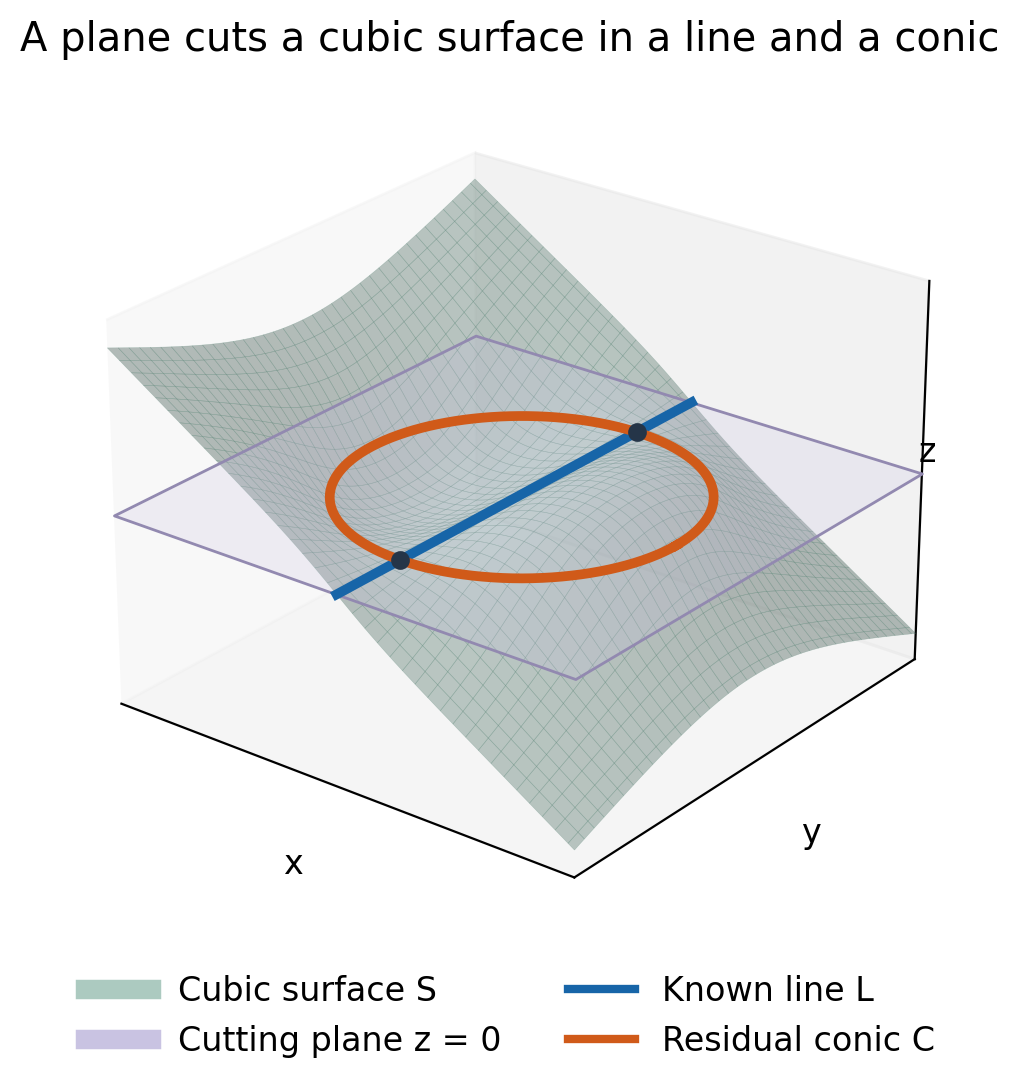
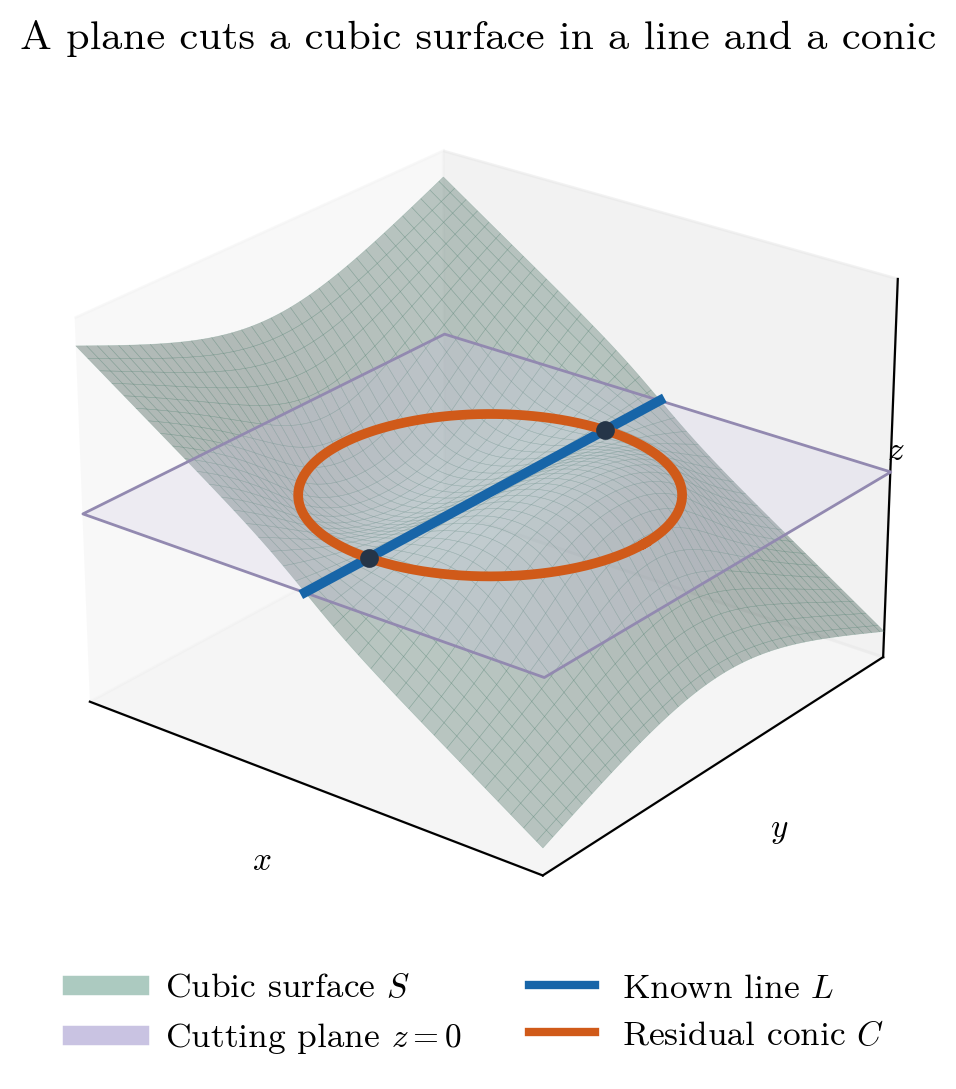
codex: match linkage figure typography to Latin Modern text

diff --git a/scripts/draw_linkage_example.py b/scripts/draw_linkage_example.py
@@ -5,7 +5,7 @@ The smooth cubic is F=x(x*x+y*y-w*w)+z(w*w+z*z).
 Its section z=0 is the line x=0 and the conic x*x+y*y=w*w.
 These are original explanatory figures, not copies of talk slides.
 Run from the repository root: python3 scripts/draw_linkage_example.py
-Dependencies: numpy and matplotlib.
+Dependencies: numpy, matplotlib, and TeX Live's Latin Modern fonts.
 
 Smoothness over C follows directly from the four partial derivatives:
 3x^2+y^2-w^2, 2xy, w^2+3z^2, 2w(z-x). If x=0 they force
@@ -14,6 +14,7 @@ give both w^2=3x^2 and w^2=-3x^2. There is no projective solution.
 """
 
 from pathlib import Path
+import subprocess
 
 import matplotlib
 
@@ -21,6 +22,7 @@ matplotlib.use("Agg")
 import matplotlib.pyplot as plt
 import numpy as np
 from matplotlib.lines import Line2D
+from matplotlib import font_manager
 from mpl_toolkits.mplot3d.art3d import Poly3DCollection
 
 
@@ -30,7 +32,18 @@ OUT.mkdir(exist_ok=True)
 BLUE = "#1765a8"
 ORANGE = "#d05a19"
 GREY = "#788491"
-plt.rcParams.update({"font.family": "DejaVu Sans", "font.size": 12})
+# Use the same Latin Modern family as the HP's lmodern package.
+for style in ("regular", "italic", "bold"):
+    font_path = subprocess.check_output(
+        ["kpsewhich", f"lmroman10-{style}.otf"], text=True
+    ).strip()
+    font_manager.fontManager.addfont(font_path)
+plt.rcParams.update({
+    "font.family": "serif",
+    "font.serif": ["Latin Modern Roman"],
+    "mathtext.fontset": "cm",
+    "font.size": 12,
+})
 
 # In w=1, the real root of z^3+z=-x(x^2+y^2-1) is unique.
 grid = np.linspace(-1.5, 1.5, 151)
@@ -65,9 +78,9 @@ ax.plot(circle_x, circle_y, np.zeros_like(theta),
 ax.scatter([0, 0], [-1, 1], [0, 0], color="#253548",
            s=33, depthshade=False, zorder=7)
 ax.set(xlim=(-1.5, 1.5), ylim=(-1.5, 1.5), zlim=(-1.8, 1.8))
-ax.set_xlabel("x", labelpad=0)
-ax.set_ylabel("y", labelpad=0)
-ax.text2D(.96, .55, "z", transform=ax.transAxes)
+ax.set_xlabel("$x$", labelpad=0)
+ax.set_ylabel("$y$", labelpad=0)
+ax.text2D(.96, .55, "$z$", transform=ax.transAxes)
 ax.set_xticks([])
 ax.set_yticks([])
 ax.set_zticks([])
@@ -77,11 +90,11 @@ ax.grid(False)
 ax.set_title("A plane cuts a cubic surface in a line and a conic", pad=4)
 legend = [
     Line2D([0], [0], color="#75a796", lw=7, alpha=.6,
-           label="Cubic surface S"),
+           label="Cubic surface $S$"),
     Line2D([0], [0], color="#c9c3e2", lw=7,
-           label="Cutting plane z = 0"),
-    Line2D([0], [0], color=BLUE, lw=3, label="Known line L"),
-    Line2D([0], [0], color=ORANGE, lw=3, label="Residual conic C"),
+           label="Cutting plane $z = 0$"),
+    Line2D([0], [0], color=BLUE, lw=3, label="Known line $L$"),
+    Line2D([0], [0], color=ORANGE, lw=3, label="Residual conic $C$"),
 ]
 fig.legend(handles=legend, loc="lower center", ncol=2,
            frameon=False, bbox_to_anchor=(.5, .0))
@@ -110,9 +123,9 @@ for i, ax in enumerate(axes):
             linestyle="--" if i == 2 else "-")
     if i != 1:
         ax.scatter([0, 0], [-1, 1], s=30, color="#253548", zorder=5)
-    ax.text(.72, .78, "C", color=ORANGE, fontsize=14,
+    ax.text(.72, .78, "$C$", color=ORANGE, fontsize=14,
             alpha=.3 if i == 1 else 1)
-    ax.text(.1, 1.15, "L", color=BLUE, fontsize=14,
+    ax.text(.1, 1.15, "$L$", color=BLUE, fontsize=14,
             alpha=.3 if i == 2 else 1)
 fig.text(.5, .02, "Residuality keeps the two meeting points (black dots).",
          ha="center", color="#394858", fontsize=11)
